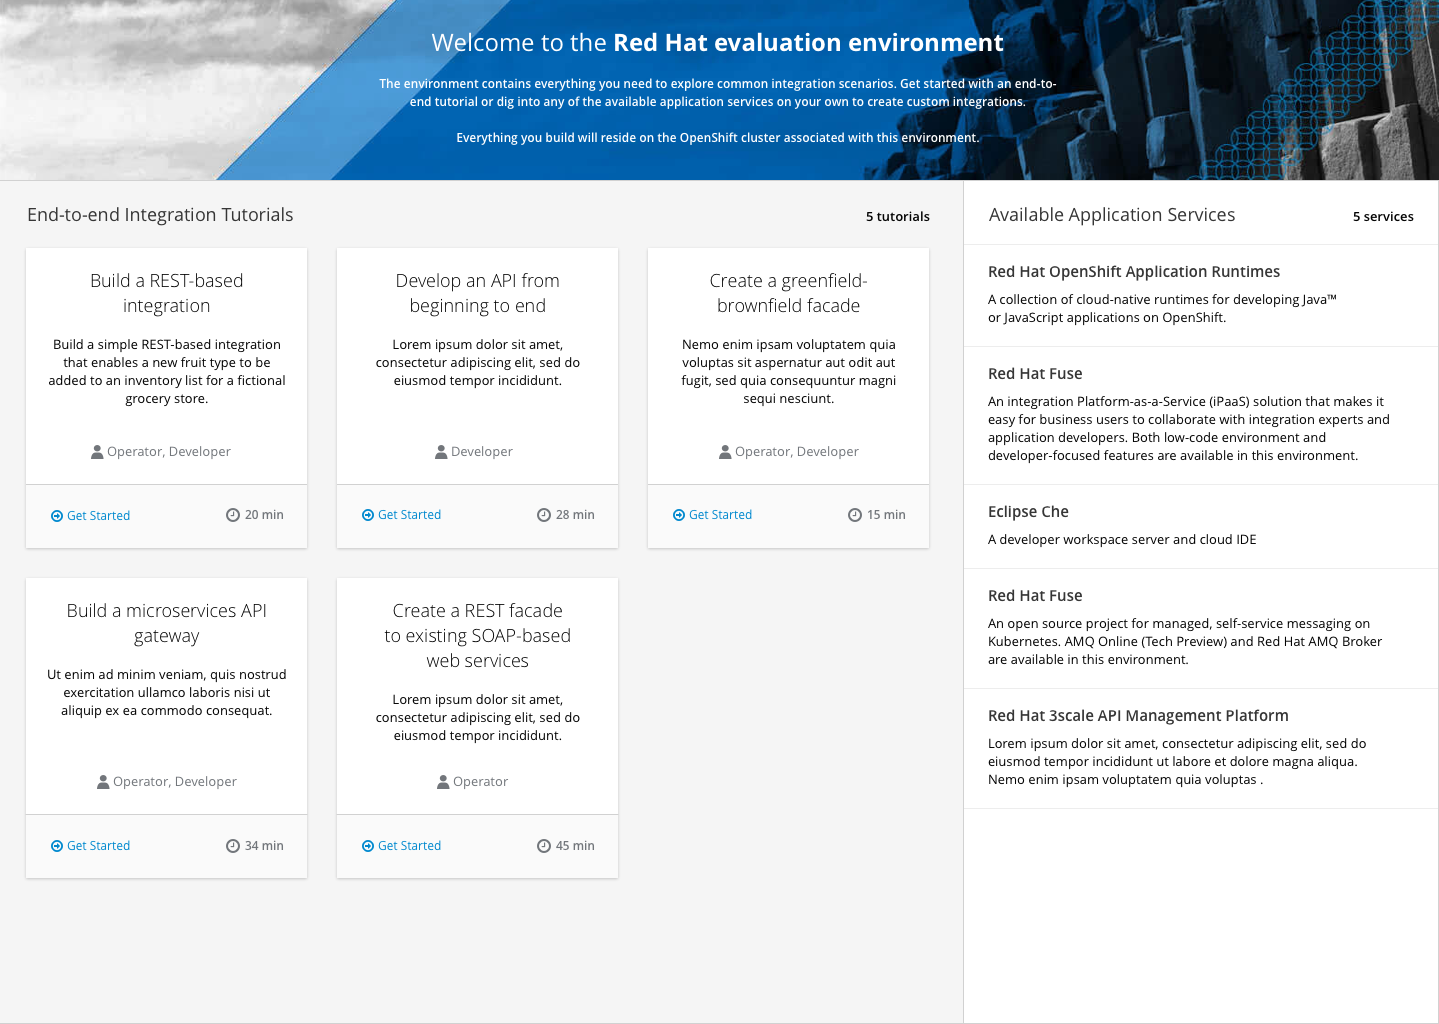
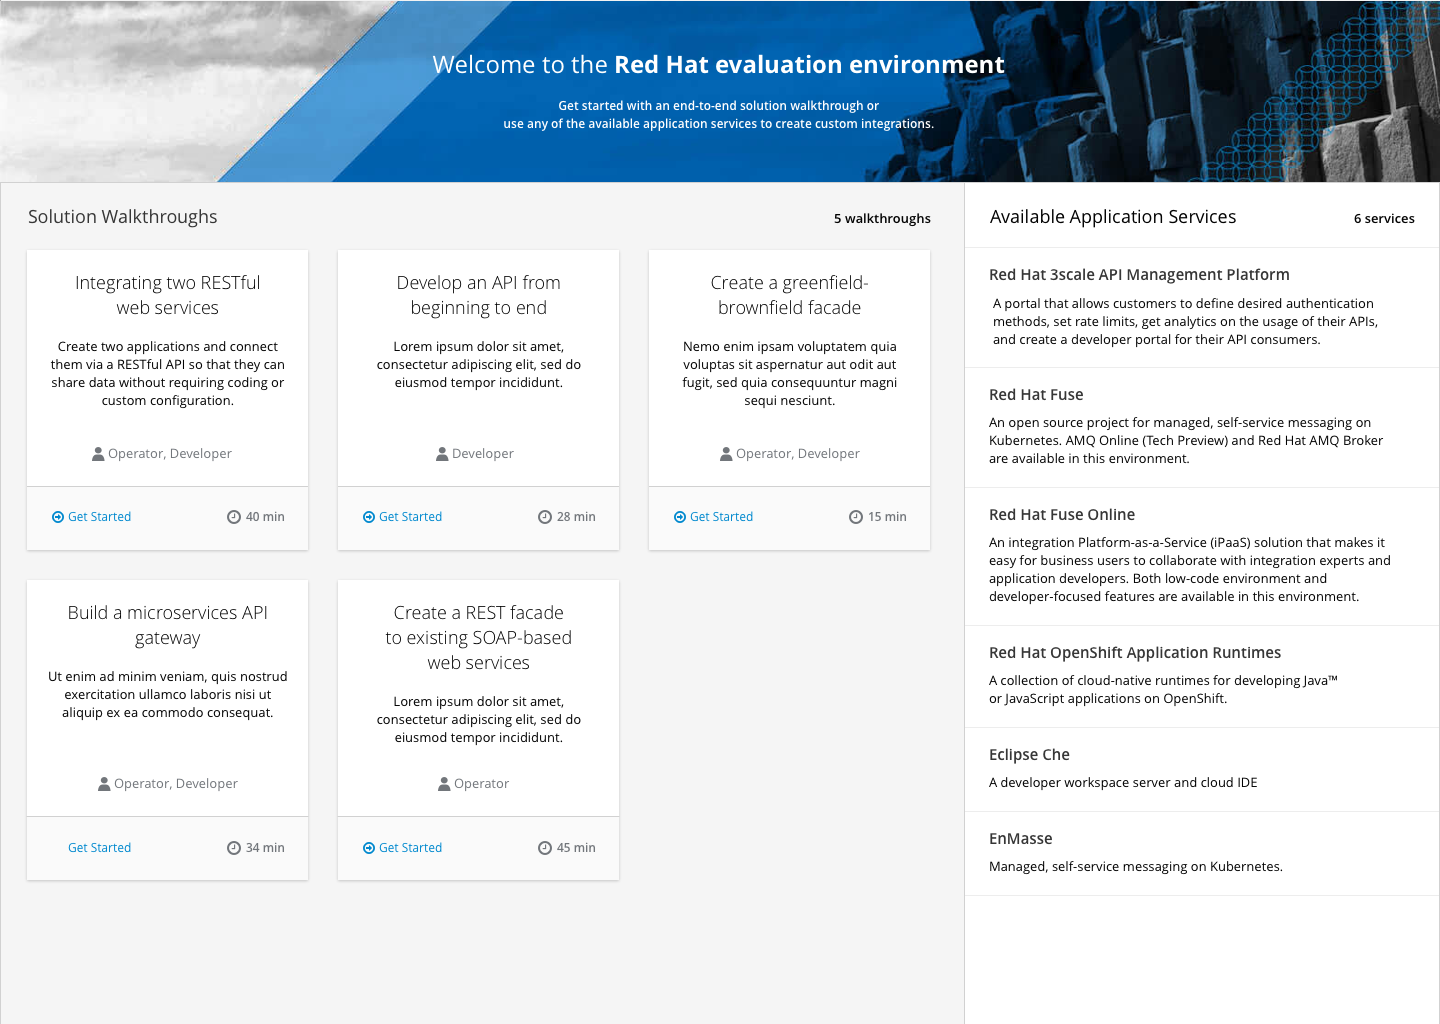
added new static image

diff --git a/src/routes.js b/src/routes.js
@@ -1,6 +1,6 @@
 import HelpPage from './pages/help/help';
-import LandingPage from './pages/landing/landingPage';
-// import StaticLandingPage from './pages/staticLanding/staticLandingPage';
+// import LandingPage from './pages/landing/landingPage';
+import StaticLandingPage from './pages/staticLanding/staticLandingPage';
 import TutorialPage from './pages/tutorial/tutorial';
 import TaskPage from './pages/tutorial/task/task';
 
@@ -20,7 +20,7 @@ const routes = () => [
     title: 'Landing',
     to: '/',
     redirect: true,
-    component: LandingPage,
+    component: StaticLandingPage,
     exact: true
   },
   {
